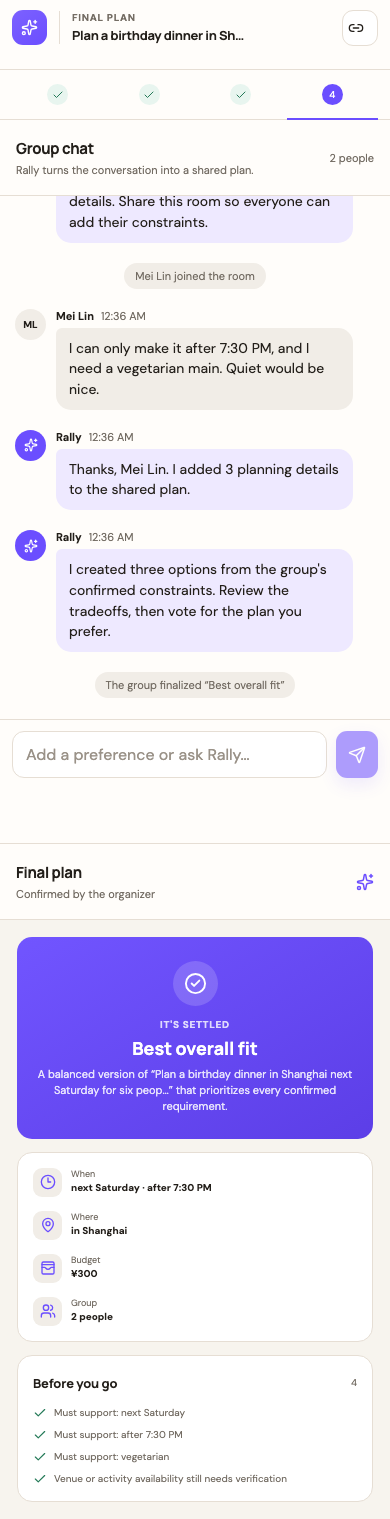
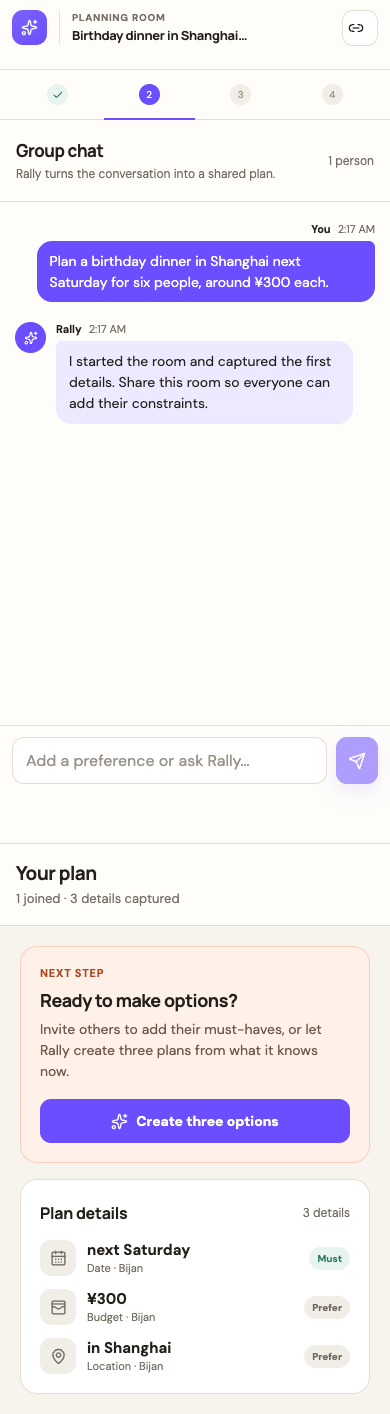
Simplify planning room sidebar

diff --git a/src/client/styles.css b/src/client/styles.css
@@ -256,8 +256,8 @@ input:focus, textarea:focus { border-color: var(--purple); box-shadow: 0 0 0 4px
 .conversation-panel { background: var(--surface); border-right: 1px solid var(--line); }
 .plan-panel { background: var(--canvas); }
 .panel-heading {
-  min-height: 76px;
-  padding: 15px 22px;
+  min-height: 82px;
+  padding: 17px 22px;
   display: flex;
   justify-content: space-between;
   align-items: center;
@@ -265,10 +265,11 @@ input:focus, textarea:focus { border-color: var(--purple); box-shadow: 0 0 0 4px
   background: var(--surface);
   border-bottom: 1px solid var(--line);
 }
-.panel-heading h2 { margin: 0 0 4px; font-family: "Manrope", sans-serif; font-size: 15px; letter-spacing: -.02em; }
-.panel-heading p { margin: 0; color: var(--muted); font-size: 11px; }
-.panel-heading > span { color: var(--muted); font-size: 11px; }
-.plan-panel .panel-heading > svg { color: var(--purple); }
+.panel-heading h2 { margin: 0 0 4px; font-family: "Manrope", sans-serif; font-size: 17px; letter-spacing: -.025em; }
+.panel-heading p { margin: 0; color: var(--muted); font-size: 12px; line-height: 1.4; }
+.panel-heading > span { color: var(--muted); font-size: 12px; }
+.plan-panel .panel-heading h2 { font-size: 19px; }
+.plan-panel .panel-heading p { font-size: 13px; }
 
 .message-list { flex: 1; min-height: 0; overflow-y: auto; padding: 25px clamp(18px, 3vw, 34px); display: flex; flex-direction: column; gap: 20px; scroll-behavior: smooth; }
 .system-message { align-self: center; padding: 6px 11px; border-radius: 999px; background: var(--soft); color: #6c655d; font-size: 11px; }
@@ -286,40 +287,43 @@ input:focus, textarea:focus { border-color: var(--purple); box-shadow: 0 0 0 4px
 .composer input { min-width: 0; min-height: 42px; }
 .inline-error { padding: 0 18px 12px; color: var(--red); font-size: 12px; background: var(--surface); }
 
-.plan-scroll { min-height: 0; overflow-y: auto; padding: 17px; display: grid; align-content: start; gap: 13px; }
+.plan-scroll { min-height: 0; overflow-y: auto; padding: 20px; display: grid; align-content: start; gap: 16px; }
 .plan-card, .proposal-card, .celebration-card {
-  padding: 15px;
+  padding: 19px;
   border: 1px solid var(--line);
-  border-radius: 15px;
+  border-radius: 17px;
   background: var(--surface-strong);
 }
-.card-title-row { min-height: 24px; margin-bottom: 11px; display: flex; align-items: center; justify-content: space-between; gap: 12px; }
-.card-title-row h3 { margin: 0; font-family: "Manrope", sans-serif; font-size: 13px; letter-spacing: -.01em; }
-.card-title-row > span:not(.status-chip) { color: var(--muted); font-size: 10px; }
-.constraint-list { display: grid; gap: 10px; }
-.constraint-row { display: grid; grid-template-columns: 28px minmax(0, 1fr) auto; gap: 9px; align-items: center; }
-.constraint-icon { width: 28px; height: 28px; display: grid; place-items: center; border-radius: 9px; background: var(--soft); color: var(--muted); }
+.card-title-row { min-height: 27px; margin-bottom: 14px; display: flex; align-items: center; justify-content: space-between; gap: 12px; }
+.card-title-row h3 { margin: 0; font-family: "Manrope", sans-serif; font-size: 16px; letter-spacing: -.015em; }
+.card-title-row > span:not(.status-chip) { color: var(--muted); font-size: 12px; }
+.constraint-list { display: grid; gap: 13px; }
+.constraint-row { display: grid; grid-template-columns: 36px minmax(0, 1fr) auto; gap: 11px; align-items: center; }
+.constraint-icon { width: 36px; height: 36px; display: grid; place-items: center; border-radius: 11px; background: var(--soft); color: var(--muted); }
+.constraint-icon svg { width: 17px; height: 17px; }
 .constraint-value { min-width: 0; display: grid; gap: 1px; }
-.constraint-value strong { overflow: hidden; text-overflow: ellipsis; white-space: nowrap; font-size: 12px; font-weight: 600; }
-.constraint-value small { color: var(--muted); font-size: 9px; text-transform: capitalize; }
-.status-chip { display: inline-flex; align-items: center; border-radius: 999px; padding: 4px 7px; font-size: 9px; font-weight: 800; white-space: nowrap; }
+.constraint-value strong { overflow: hidden; text-overflow: ellipsis; white-space: nowrap; font-size: 15px; font-weight: 700; }
+.constraint-value small { color: var(--muted); font-size: 11px; line-height: 1.35; text-transform: capitalize; }
+.status-chip { display: inline-flex; align-items: center; border-radius: 999px; padding: 5px 8px; font-size: 10px; font-weight: 800; white-space: nowrap; }
 .status-chip.hard { background: var(--green-soft); color: var(--green); }
 .status-chip.soft { background: var(--soft); color: #6c655d; }
 .status-chip.warm { background: var(--orange-soft); color: #b64d20; }
 .status-chip.best { background: var(--purple-soft); color: var(--purple-dark); }
 .empty-state { padding: 20px 10px; display: grid; justify-items: center; gap: 8px; text-align: center; color: var(--muted); }
-.empty-state p { max-width: 250px; margin: 0; font-size: 11px; line-height: 1.45; }
+.empty-state p { max-width: 280px; margin: 0; font-size: 13px; line-height: 1.5; }
 .next-step-card { background: var(--orange-soft); border-color: rgba(232, 113, 60, .25); }
-.next-step-card > p { margin-bottom: 14px; color: #735e50; font-size: 11px; line-height: 1.5; }
-.next-step-card .primary-button { min-height: 37px; box-shadow: none; }
-.waiting-note { display: flex; align-items: center; gap: 7px; color: #735e50; font-size: 10px; }
+.next-step-label { display: block; margin-bottom: 8px; color: #aa4b25; font-size: 11px; font-weight: 800; letter-spacing: .07em; text-transform: uppercase; }
+.next-step-card > h3 { margin: 0 0 7px; font-family: "Manrope", sans-serif; font-size: 18px; letter-spacing: -.025em; }
+.next-step-card > p { margin-bottom: 17px; color: #6d574a; font-size: 14px; line-height: 1.5; }
+.next-step-card .primary-button { width: 100%; min-height: 44px; box-shadow: none; font-size: 14px; }
+.waiting-note { display: flex; align-items: center; gap: 7px; color: #6d574a; font-size: 12px; line-height: 1.4; }
 
 .generating-panel { min-height: 420px; padding: 55px 24px; display: flex; flex-direction: column; align-items: center; justify-content: center; text-align: center; }
 .generating-icon { width: 65px; height: 65px; margin-bottom: 20px; display: grid; place-items: center; border-radius: 21px; color: white; background: linear-gradient(145deg, #846bff, var(--purple)); box-shadow: 0 16px 35px rgba(107, 78, 255, .25); animation: float 2.4s ease-in-out infinite; }
 @keyframes float { 50% { transform: translateY(-5px); } }
-.generating-panel h3 { margin-bottom: 8px; font-family: "Manrope", sans-serif; font-size: 18px; }
-.generating-panel p { max-width: 340px; color: var(--muted); font-size: 12px; line-height: 1.55; }
-.generating-panel small { color: var(--muted); font-size: 9px; }
+.generating-panel h3 { margin-bottom: 8px; font-family: "Manrope", sans-serif; font-size: 20px; }
+.generating-panel p { max-width: 360px; color: var(--muted); font-size: 14px; line-height: 1.55; }
+.generating-panel small { color: var(--muted); font-size: 11px; }
 .progress-line { width: min(260px, 80%); height: 5px; margin: 10px 0 16px; overflow: hidden; border-radius: 999px; background: #e8e2da; }
 .progress-line span { display: block; width: 45%; height: 100%; border-radius: inherit; background: var(--purple); animation: progress 1.5s ease-in-out infinite alternate; }
 @keyframes progress { from { transform: translateX(-45%); } to { transform: translateX(175%); } }
@@ -327,37 +331,37 @@ input:focus, textarea:focus { border-color: var(--purple); box-shadow: 0 0 0 4px
 .proposal-list { display: grid; gap: 12px; }
 .proposal-intro { display: flex; gap: 10px; align-items: flex-start; padding: 3px 3px 2px; }
 .proposal-intro > svg { color: var(--purple); margin-top: 2px; }
-.proposal-intro h3 { margin: 0 0 3px; font-family: "Manrope", sans-serif; font-size: 14px; }
-.proposal-intro p { margin: 0; color: var(--muted); font-size: 10px; }
+.proposal-intro h3 { margin: 0 0 4px; font-family: "Manrope", sans-serif; font-size: 17px; }
+.proposal-intro p { margin: 0; color: var(--muted); font-size: 13px; line-height: 1.45; }
 .proposal-card { position: relative; overflow: hidden; transition: border-color .16s ease, box-shadow .16s ease; }
 .proposal-card.selected { border-color: var(--purple); box-shadow: 0 0 0 3px rgba(107, 78, 255, .08); }
 .proposal-rank { position: absolute; top: 0; right: 0; width: 34px; height: 30px; display: grid; place-items: center; border-radius: 0 0 0 14px; background: var(--soft); color: var(--muted); font-family: "Manrope", sans-serif; font-size: 11px; font-weight: 800; }
 .proposal-head { display: flex; justify-content: space-between; gap: 12px; padding-right: 23px; }
-.proposal-head h3 { margin: 0 0 4px; font-family: "Manrope", sans-serif; font-size: 14px; }
-.proposal-head p { margin: 0; color: var(--muted); font-size: 10px; line-height: 1.4; }
+.proposal-head h3 { margin: 0 0 5px; font-family: "Manrope", sans-serif; font-size: 16px; }
+.proposal-head p { margin: 0; color: var(--muted); font-size: 12px; line-height: 1.45; }
 .proposal-facts { margin: 13px 0 10px; display: grid; gap: 7px; }
 .proposal-facts div { display: grid; grid-template-columns: 66px minmax(0, 1fr); gap: 8px; align-items: baseline; }
-.proposal-facts dt { display: flex; align-items: center; gap: 5px; color: var(--muted); font-size: 9px; font-weight: 700; text-transform: uppercase; letter-spacing: .04em; }
-.proposal-facts dd { margin: 0; font-size: 10px; }
-.tradeoff { margin: 10px 0; padding: 8px 9px; border-radius: 8px; background: var(--soft); color: var(--muted); font-size: 9px; line-height: 1.4; }
+.proposal-facts dt { display: flex; align-items: center; gap: 5px; color: var(--muted); font-size: 10px; font-weight: 700; text-transform: uppercase; letter-spacing: .04em; }
+.proposal-facts dd { margin: 0; font-size: 12px; line-height: 1.4; }
+.tradeoff { margin: 10px 0; padding: 10px 11px; border-radius: 9px; background: var(--soft); color: var(--muted); font-size: 11px; line-height: 1.45; }
 .proposal-actions { padding-top: 11px; border-top: 1px solid var(--line); display: flex; align-items: center; gap: 9px; }
-.proposal-actions .primary-button, .proposal-actions .secondary-button { min-height: 31px; padding: 5px 9px; font-size: 10px; box-shadow: none; }
-.proposal-actions > span { color: var(--muted); font-size: 9px; }
-.proposal-actions .text-button { margin-left: auto; min-height: 31px; font-size: 10px; }
+.proposal-actions .primary-button, .proposal-actions .secondary-button { min-height: 35px; padding: 6px 11px; font-size: 12px; box-shadow: none; }
+.proposal-actions > span { color: var(--muted); font-size: 11px; }
+.proposal-actions .text-button { margin-left: auto; min-height: 35px; font-size: 12px; }
 
 .final-plan { display: grid; gap: 13px; }
 .celebration-card { padding: 24px 18px; background: linear-gradient(150deg, #7155ff, #5c3ee7); color: white; border: 0; text-align: center; }
 .celebration-card > span { width: 45px; height: 45px; margin: 0 auto 12px; display: grid; place-items: center; border-radius: 50%; background: rgba(255, 255, 255, .17); }
-.celebration-card > p:first-of-type { margin-bottom: 5px; font-size: 10px; font-weight: 700; text-transform: uppercase; letter-spacing: .07em; opacity: .8; }
-.celebration-card h3 { margin-bottom: 7px; font-family: "Manrope", sans-serif; font-size: 18px; }
-.celebration-card > p:last-child { margin: 0; font-size: 11px; line-height: 1.45; opacity: .85; }
+.celebration-card > p:first-of-type { margin-bottom: 5px; font-size: 11px; font-weight: 700; text-transform: uppercase; letter-spacing: .07em; opacity: .8; }
+.celebration-card h3 { margin-bottom: 7px; font-family: "Manrope", sans-serif; font-size: 21px; }
+.celebration-card > p:last-child { margin: 0; font-size: 13px; line-height: 1.5; opacity: .88; }
 .final-details { display: grid; grid-template-columns: 1fr 1fr; gap: 14px 10px; }
 .final-details > div { display: flex; gap: 9px; align-items: flex-start; }
 .final-details > div > span { width: 29px; height: 29px; display: grid; place-items: center; flex: none; border-radius: 9px; background: var(--soft); color: var(--purple); }
 .final-details p { margin: 0; min-width: 0; display: grid; gap: 1px; }
-.final-details small { color: var(--muted); font-size: 9px; }
-.final-details strong { font-size: 10px; line-height: 1.3; }
-.checklist p { margin: 8px 0 0; display: flex; gap: 7px; color: var(--muted); font-size: 10px; line-height: 1.4; }
+.final-details small { color: var(--muted); font-size: 11px; }
+.final-details strong { font-size: 12px; line-height: 1.35; }
+.checklist p { margin: 9px 0 0; display: flex; gap: 7px; color: var(--muted); font-size: 12px; line-height: 1.45; }
 .checklist p svg { flex: none; color: var(--green); }
 
 .full-status { min-height: 100vh; padding: 40px 20px; display: flex; flex-direction: column; align-items: center; justify-content: center; gap: 17px; text-align: center; background: var(--canvas); }

diff --git a/src/client/App.tsx b/src/client/App.tsx
@@ -377,7 +377,7 @@ function PlanningBoard({ session, snapshot, isOrganizer, busy, run }: {
 
   return (
     <aside className="plan-panel">
-      <div className="panel-heading"><div><h2>{snapshot.room.stage === "finalized" ? "Final plan" : "Live plan"}</h2><p>{planSubtitle(snapshot)}</p></div><Sparkles size={18} /></div>
+      <div className="panel-heading"><div><h2>{snapshot.room.stage === "finalized" ? "Final plan" : "Your plan"}</h2><p>{planSubtitle(snapshot)}</p></div></div>
       <div className="plan-scroll">
         {snapshot.room.stage === "finalized" && finalized ? (
           <FinalPlan proposal={finalized} snapshot={snapshot} />
@@ -394,16 +394,17 @@ function PlanningBoard({ session, snapshot, isOrganizer, busy, run }: {
           />
         ) : (
           <>
-            <ConstraintBoard constraints={snapshot.constraints} />
             <section className="plan-card next-step-card">
-              <div className="card-title-row"><h3>{snapshot.constraints.length ? "Ready for options?" : "Collect the essentials"}</h3><span className="status-chip warm">Next step</span></div>
-              <p>{snapshot.constraints.length ? "Invite everyone to add their non-negotiables, then let Rally find the best overlap." : "Tell Rally the date, location, budget, and anything that would make a plan impossible."}</p>
+              <span className="next-step-label">Next step</span>
+              <h3>{snapshot.constraints.length ? "Ready to make options?" : "Add the plan details"}</h3>
+              <p>{snapshot.constraints.length ? "Invite others to add their must-haves, or let Rally create three plans from what it knows now." : "Use the chat to share the date, location, budget, and anything the group needs."}</p>
               {isOrganizer ? (
                 <button className="primary-button" type="button" disabled={busy === "generate"} onClick={() => run("generate", () => api.generateProposals(session))}>
                   {busy === "generate" ? <LoaderCircle className="spin" size={17} /> : <Sparkles size={17} />} Create three options
                 </button>
               ) : <span className="waiting-note"><Clock3 size={15} /> Waiting for the organizer to create options</span>}
             </section>
+            <ConstraintBoard constraints={snapshot.constraints} />
           </>
         )}
       </div>
@@ -421,8 +422,8 @@ function ConstraintBoard({ constraints }: { constraints: Constraint[] }) {
     if (type === "attendance") return <Users size={15} />;
     return <CheckCircle2 size={15} />;
   };
-  return <section className="plan-card">
-    <div className="card-title-row"><h3>Captured so far</h3><span>{pluralize(constraints.length, "detail")}</span></div>
+  return <section className="plan-card constraint-card">
+    <div className="card-title-row"><h3>Plan details</h3><span>{pluralize(constraints.length, "detail")}</span></div>
     {constraints.length ? <div className="constraint-list">
       {constraints.map((constraint) => <div className="constraint-row" key={constraint.id}>
         <span className="constraint-icon">{iconFor(constraint.type)}</span>

diff --git a/PROMPTS.md b/PROMPTS.md
@@ -92,3 +92,7 @@ This file records the human prompts used while designing and implementing Rally.
 > yes use fanpilot.app
 
 > use the apex, doens't need to point to orbrunner
+
+> [Image attached: screenshot of the Rally planning room.] the UI is a little cluttered, seems like it could be clearer/easier to use/tell what going on, it should be simple and not overwhelming to a first time user
+
+> I thin kthe righ sidebar text could be larger/clearer
